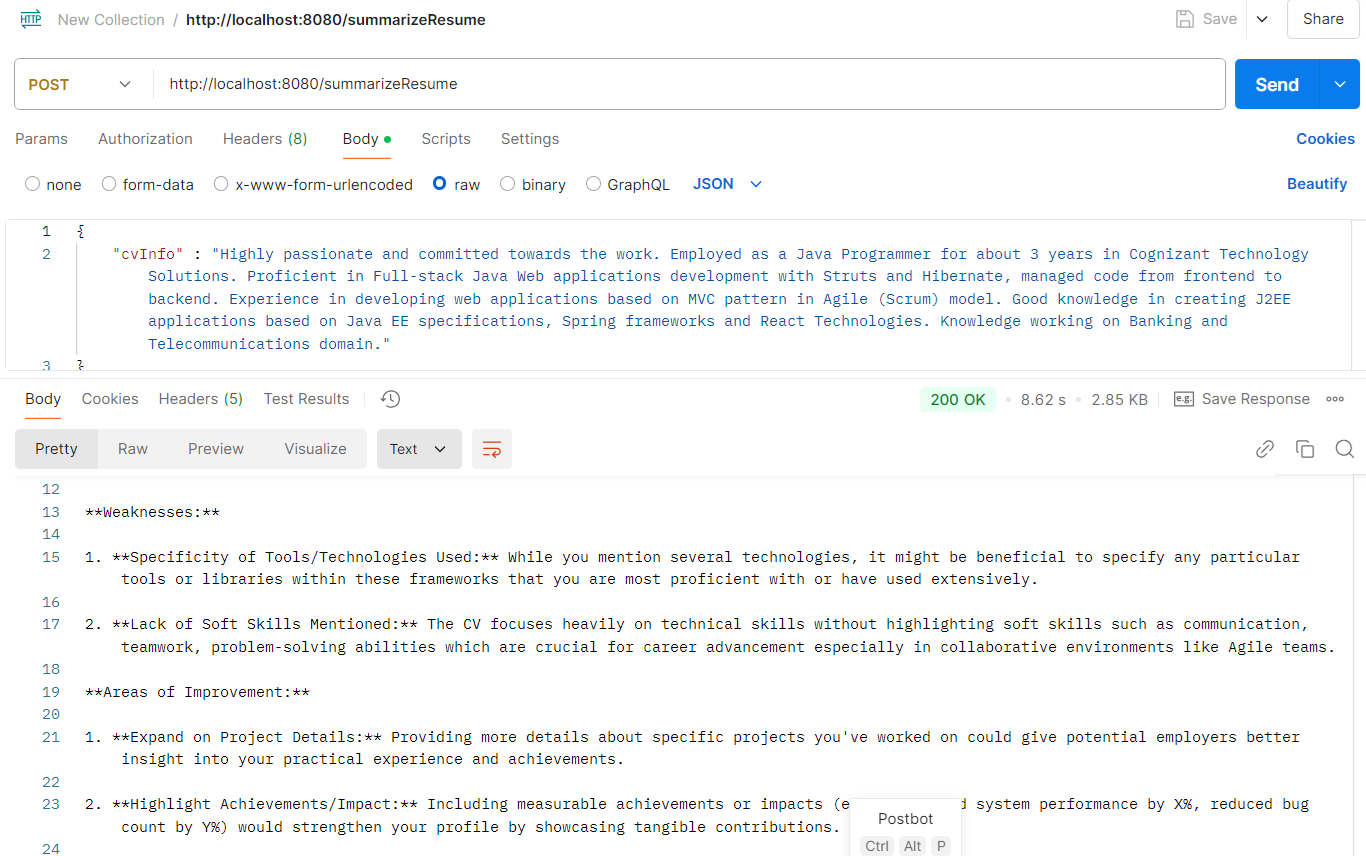
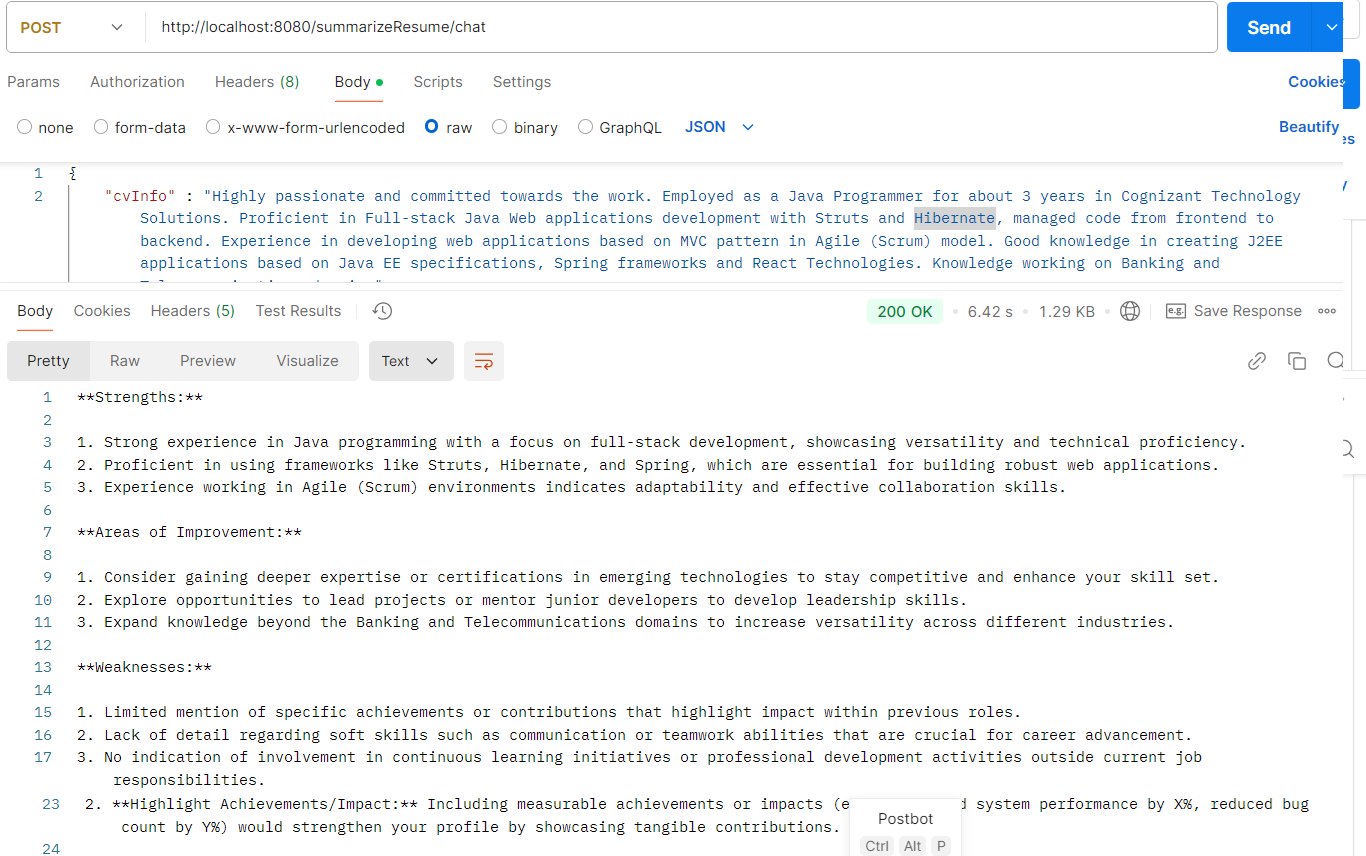
Modified controller and service classes to add another api endpoint inorder to get the response from Open AI model in streamed manner. Modified README.md.

diff --git a/src/main/java/se/lexicon/week52_springai_chatbotapp_cvfeedback/service/CVFeedbackChatbotServiceImpl.java b/src/main/java/se/lexicon/week52_springai_chatbotapp_cvfeedback/service/CVFeedbackChatbotServiceImpl.java
@@ -1,14 +1,18 @@
 package se.lexicon.week52_springai_chatbotapp_cvfeedback.service;
 
 import org.springframework.ai.chat.messages.Message;
+import org.springframework.ai.chat.model.ChatResponse;
+import org.springframework.ai.chat.model.Generation;
 import org.springframework.ai.chat.prompt.Prompt;
 import org.springframework.ai.chat.prompt.SystemPromptTemplate;
 import org.springframework.ai.openai.OpenAiChatModel;
 import org.springframework.beans.factory.annotation.Autowired;
 import org.springframework.stereotype.Service;
+import reactor.core.publisher.Flux;
 import se.lexicon.week52_springai_chatbotapp_cvfeedback.entity.Resume;
 
 import java.util.List;
+import java.util.Optional;
 
 @Service
 public class CVFeedbackChatbotServiceImpl implements CVFeedbackChatbotService {
@@ -20,16 +24,35 @@ public class CVFeedbackChatbotServiceImpl implements CVFeedbackChatbotService {
     }
 
     @Override
-    public String summarizeResume(Resume resume) {
+    public String summarizeResumeChat(Resume resume) {
         String systemText = """
-                You are a helpful, concise and professional AI Assistant that accepts CV information as text and provides summarized feedback.
-                Structure the response into clear sections: 'Strength', 'Weakness' and 'Areas of Improvement'.
+                You are a helpful and professional AI Assistant that accepts CV information as text and provides summarized feedback.
+                Structure the response into clear sections: 'Strength', 'Areas of Improvement' and 'Weakness'.
+                Respond with a concise message in each section.
+                No need to add more text or message and Not more that 3 points in each section.
                 Maintain a friendly tone and ensure your feedback is relevant to the input.
                 """;
         SystemPromptTemplate systemPromptTemplate = new SystemPromptTemplate(systemText);
         Message systemMessage = systemPromptTemplate.createMessage();
         Prompt prompt = new Prompt(String.valueOf(List.of(resume.getCvInfo(), systemMessage)));
-//        Flux<String> fluxResponse = Flux.fromStream(() -> openAiChatModel.stream(prompt)).map(ChatResponse::toString);
-        return openAiChatModel.call(prompt).getResult().toString();
+        ChatResponse chatResponse = openAiChatModel.call(prompt);
+        Generation result = chatResponse.getResult();
+        return result.getOutput().getContent();
+    }
+
+    @Override
+    public Flux<String> summarizeResumeReactiveChat(String resume) {
+        String systemText = """
+                You are a helpful and professional AI Assistant that accepts CV information as text and provides summarized feedback.
+                Structure the response into clear sections: 'Strength', 'Areas of Improvement' and 'Weakness'.
+                Respond with a concise message in each section.
+                No need to add more text or message and Not more that 3 points in each section.
+                Maintain a friendly tone and ensure your feedback is relevant to the input.
+                """;
+        SystemPromptTemplate systemPromptTemplate = new SystemPromptTemplate(systemText);
+        Message systemMessage = systemPromptTemplate.createMessage();
+        Prompt prompt = new Prompt(String.valueOf(List.of(resume, systemMessage)));
+        Flux<ChatResponse> chatResponse = openAiChatModel.stream(prompt);
+        return chatResponse.map(response -> Optional.ofNullable(response.getResult().getOutput().getContent()).orElse("default"));
     }
 }

diff --git a/src/main/java/se/lexicon/week52_springai_chatbotapp_cvfeedback/controller/CVFeedbackChatbotController.java b/src/main/java/se/lexicon/week52_springai_chatbotapp_cvfeedback/controller/CVFeedbackChatbotController.java
@@ -2,12 +2,15 @@ package se.lexicon.week52_springai_chatbotapp_cvfeedback.controller;
 
 import jakarta.validation.Valid;
 import org.springframework.beans.factory.annotation.Autowired;
+import org.springframework.http.HttpStatus;
 import org.springframework.http.ResponseEntity;
 import org.springframework.web.bind.annotation.*;
+import reactor.core.publisher.Flux;
 import se.lexicon.week52_springai_chatbotapp_cvfeedback.entity.Resume;
 import se.lexicon.week52_springai_chatbotapp_cvfeedback.service.CVFeedbackChatbotServiceImpl;
 
 @RestController
+@RequestMapping("/api/summarizeResume")
 public class CVFeedbackChatbotController {
     CVFeedbackChatbotServiceImpl cvFeedbackChatbotService;
 
@@ -16,9 +19,15 @@ public class CVFeedbackChatbotController {
         this.cvFeedbackChatbotService = cvFeedbackChatbotService;
     }
 
-    @PostMapping("/summarizeResume")
+    @PostMapping("/chat")
     public ResponseEntity<String> summarizeResume(@RequestBody @Valid Resume resume) {
-        String response = cvFeedbackChatbotService.summarizeResume(resume);
-        return ResponseEntity.ok(response);
+        String response = cvFeedbackChatbotService.summarizeResumeChat(resume);
+        return ResponseEntity.status(HttpStatus.OK).body(response);
+    }
+
+    @GetMapping("/reactiveChat")
+    public ResponseEntity<Flux<String>> summarizeResume(@RequestParam @Valid String resume) {
+        Flux<String> response = cvFeedbackChatbotService.summarizeResumeReactiveChat(resume);
+        return ResponseEntity.status(HttpStatus.OK).body(response);
     }
 }

diff --git a/src/main/java/se/lexicon/week52_springai_chatbotapp_cvfeedback/service/CVFeedbackChatbotService.java b/src/main/java/se/lexicon/week52_springai_chatbotapp_cvfeedback/service/CVFeedbackChatbotService.java
@@ -1,7 +1,10 @@
 package se.lexicon.week52_springai_chatbotapp_cvfeedback.service;
 
+import reactor.core.publisher.Flux;
 import se.lexicon.week52_springai_chatbotapp_cvfeedback.entity.Resume;
 
 public interface CVFeedbackChatbotService {
-    String summarizeResume(Resume resume);
+    String summarizeResumeChat(Resume resume);
+
+    Flux<String> summarizeResumeReactiveChat(String resume);
 }

diff --git a/README.md b/README.md
@@ -12,8 +12,8 @@ Application has to accurately interpret user input and generate precise text res
 * (Optional Task): Format the output feedback to enhance readability and usability, such as categorizing feedback into sections or providing a score-based summary.
 
 ### **`Input:`** Resume Information
-### **`Spring boot application:`** Already configured with System instructions and LLM parameter Settings.
-### **`Output:`** Summarized feedback with Strength, Weakness and Areas of Improvement.
+### **`Spring boot application:`** Customized Prompts are created and configured with System instructions & LLM parameter Settings.
+### **`Output:`** Summarized feedback with Strength, Areas of Improvement and Weakness.
 
 ### STEPS implemented in Spring Boot Application:
 1. Spring boot application is created with Gradle as build automation tool. Necessary dependencies are added.
@@ -22,16 +22,23 @@ Application has to accurately interpret user input and generate precise text res
     * Added the necessary configuration properties to connect with Open AI model (baseurl, model name, max-attempts and API key).
       API Key is added as environmental variable.
     * Configured the necessary LLM Fine Tune options to customize the model response.
-3. Controller and Service classes are created. Taken necessary actions to implement the following API endpoint inside these classes.
-    1. Chatbot API endpoint:
-        - CV information is passed as **`JSON`** format through POST.
+3. Controller and Service classes are created. Taken necessary actions to implement the API endpoints inside these classes.
+4. Adding System Information, Sending request to and Receiving response from Open AI chat model is configured inside the Spring boot application using the following techniques:
+   - **`SystemPromptTemplate, Message and Prompt`**(Predefined Classes present inside org.springframework.ai.chat framework).
+   - **`OpenAiChatModel class`** which has pre-built methods to connect with Open AI Model is used in Service class.
+   - Interact with AI functionalities using APIs like AI Model API and Advisors API.
+    1. API endpoint as Non-reactive Chatbot:
+        - CV information is passed as **`JSON`** format through POST method.
         - Response is delivered to the user only when the request sent to predefined model is processed completely.
         - User and Application has to wait until the response is generated fully.
-        - Response is delivered in the format, Strength, Weakness and Areas of Improvement.
-    2. Adding System Information, Sending request to and Receiving response from Open AI chat model is configured inside the Spring boot application using the following techniques:
-        - **`SystemPromptTemplate, Message and Prompt`**(Predefined Classes present inside org.springframework.ai.chat framework).
-        - **`OpenAiChatModel class`** which has pre-built methods to connect with Open AI Model is used in Service class.
-        - Interact with AI functionalities using APIs like AI Model API and Advisors API.
+        - Response is delivered in the format: **`Strength, Weakness and Areas of Improvement`**.
+    2. API endpoint as Reactive Chatbot:
+        - CV information is passed as **`String`** through GET method.
+        - Reactive-stack web framework, Spring WebFlux supports Reactive Streams.
+        - Spring based application forwards the response/event as they happen.
+        - Response is delivered as Stream, and it is more interactive.
+        - User and Application no need to wait for long time until the response is processed completely.
+        - Response is delivered in the format: **`Strength, Weakness and Areas of Improvement`**.
 
 ## Sample Request and Response through Postman:
 ![Request&Response.png](./images/Request&Response.png)
